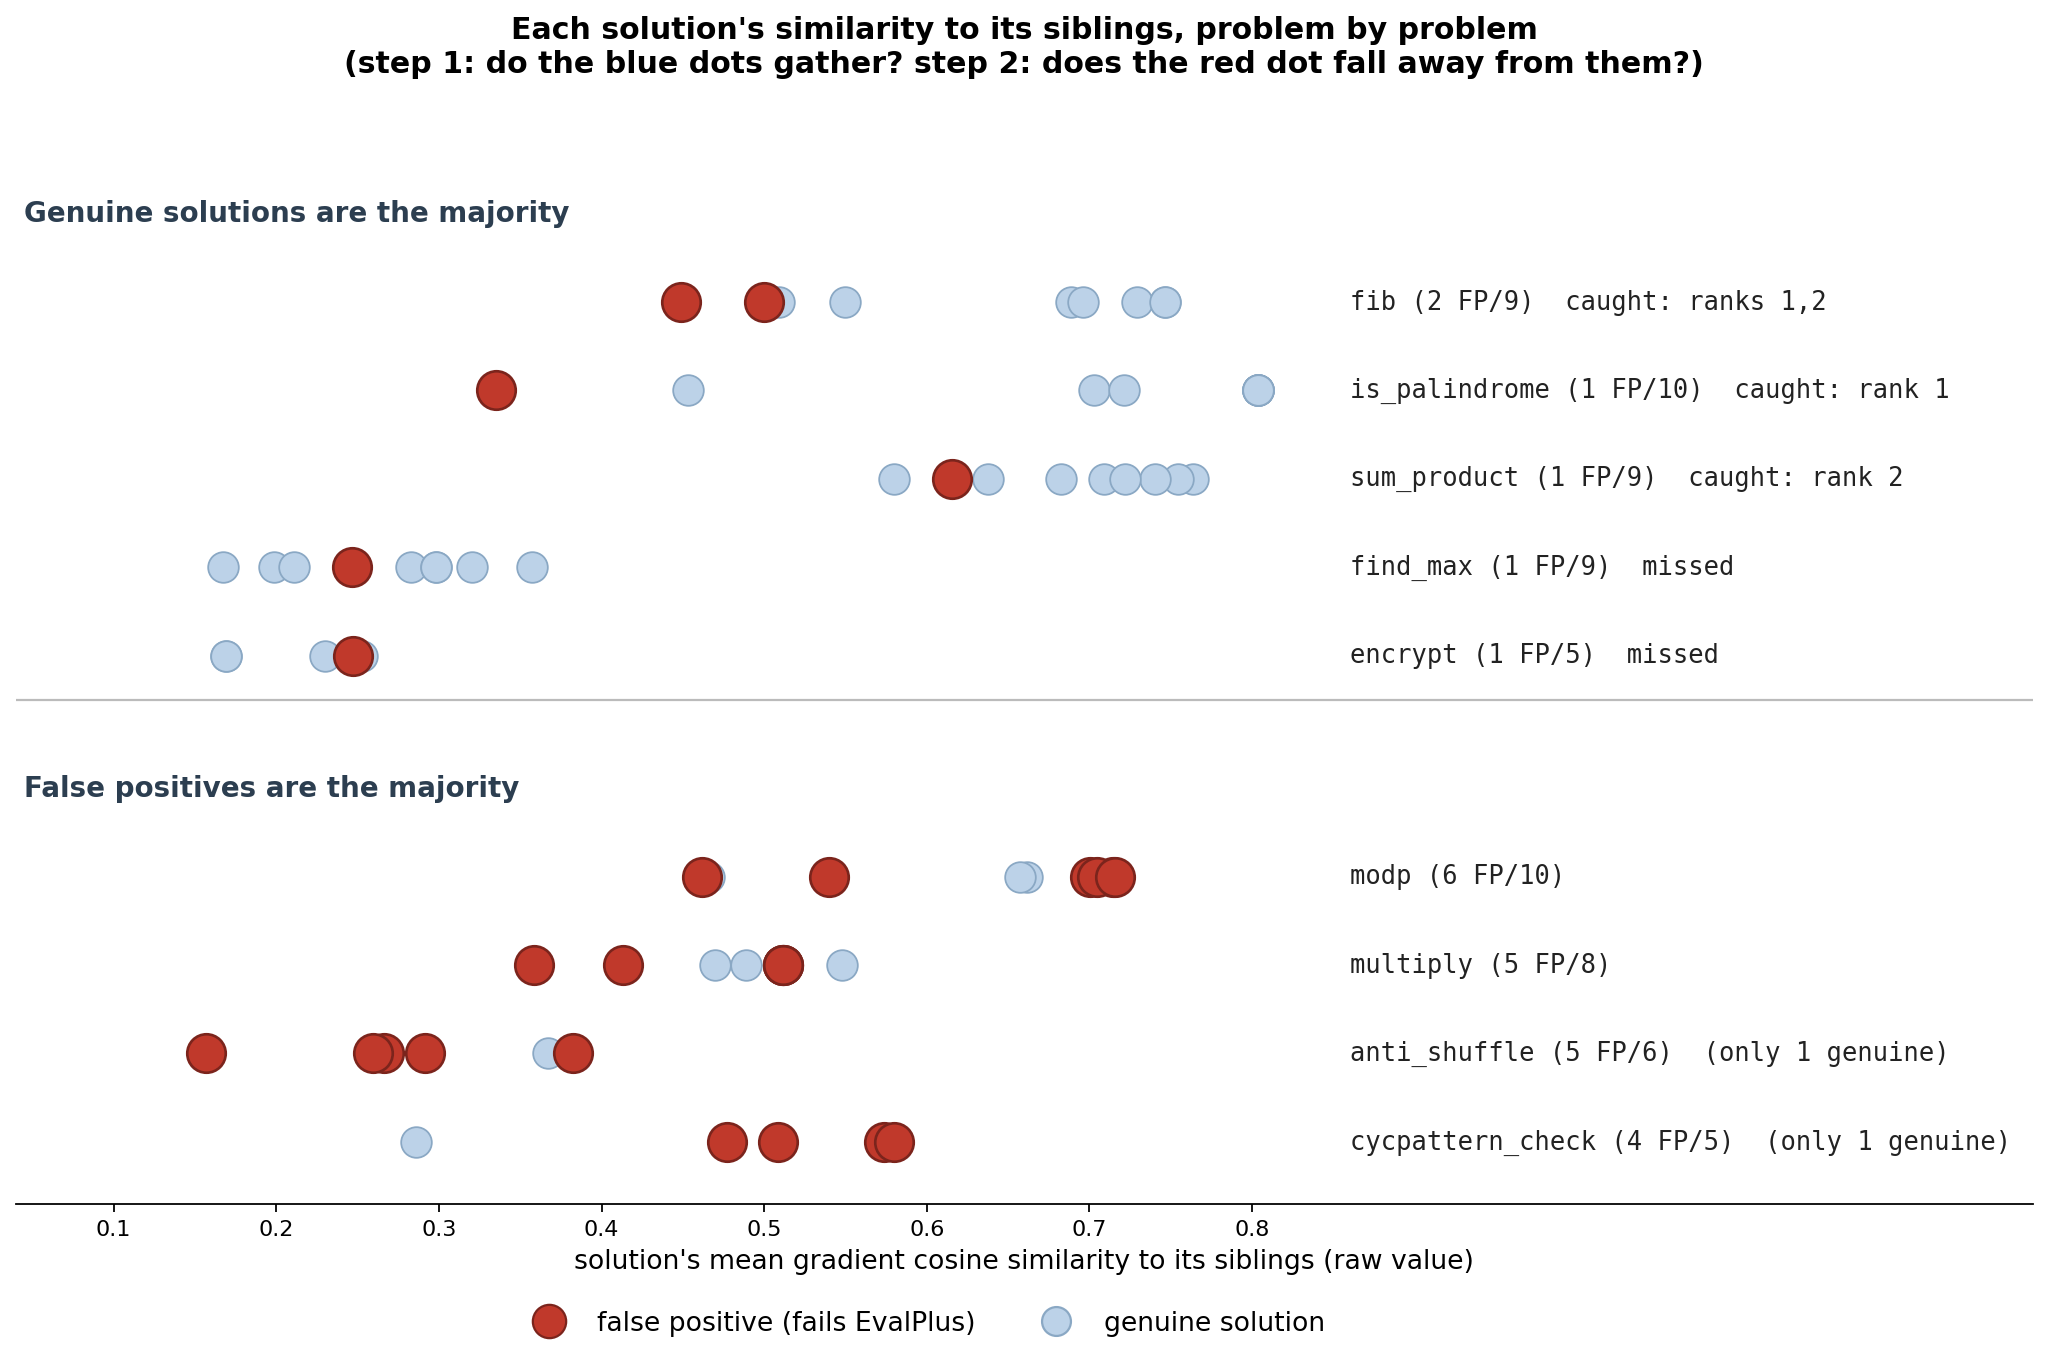
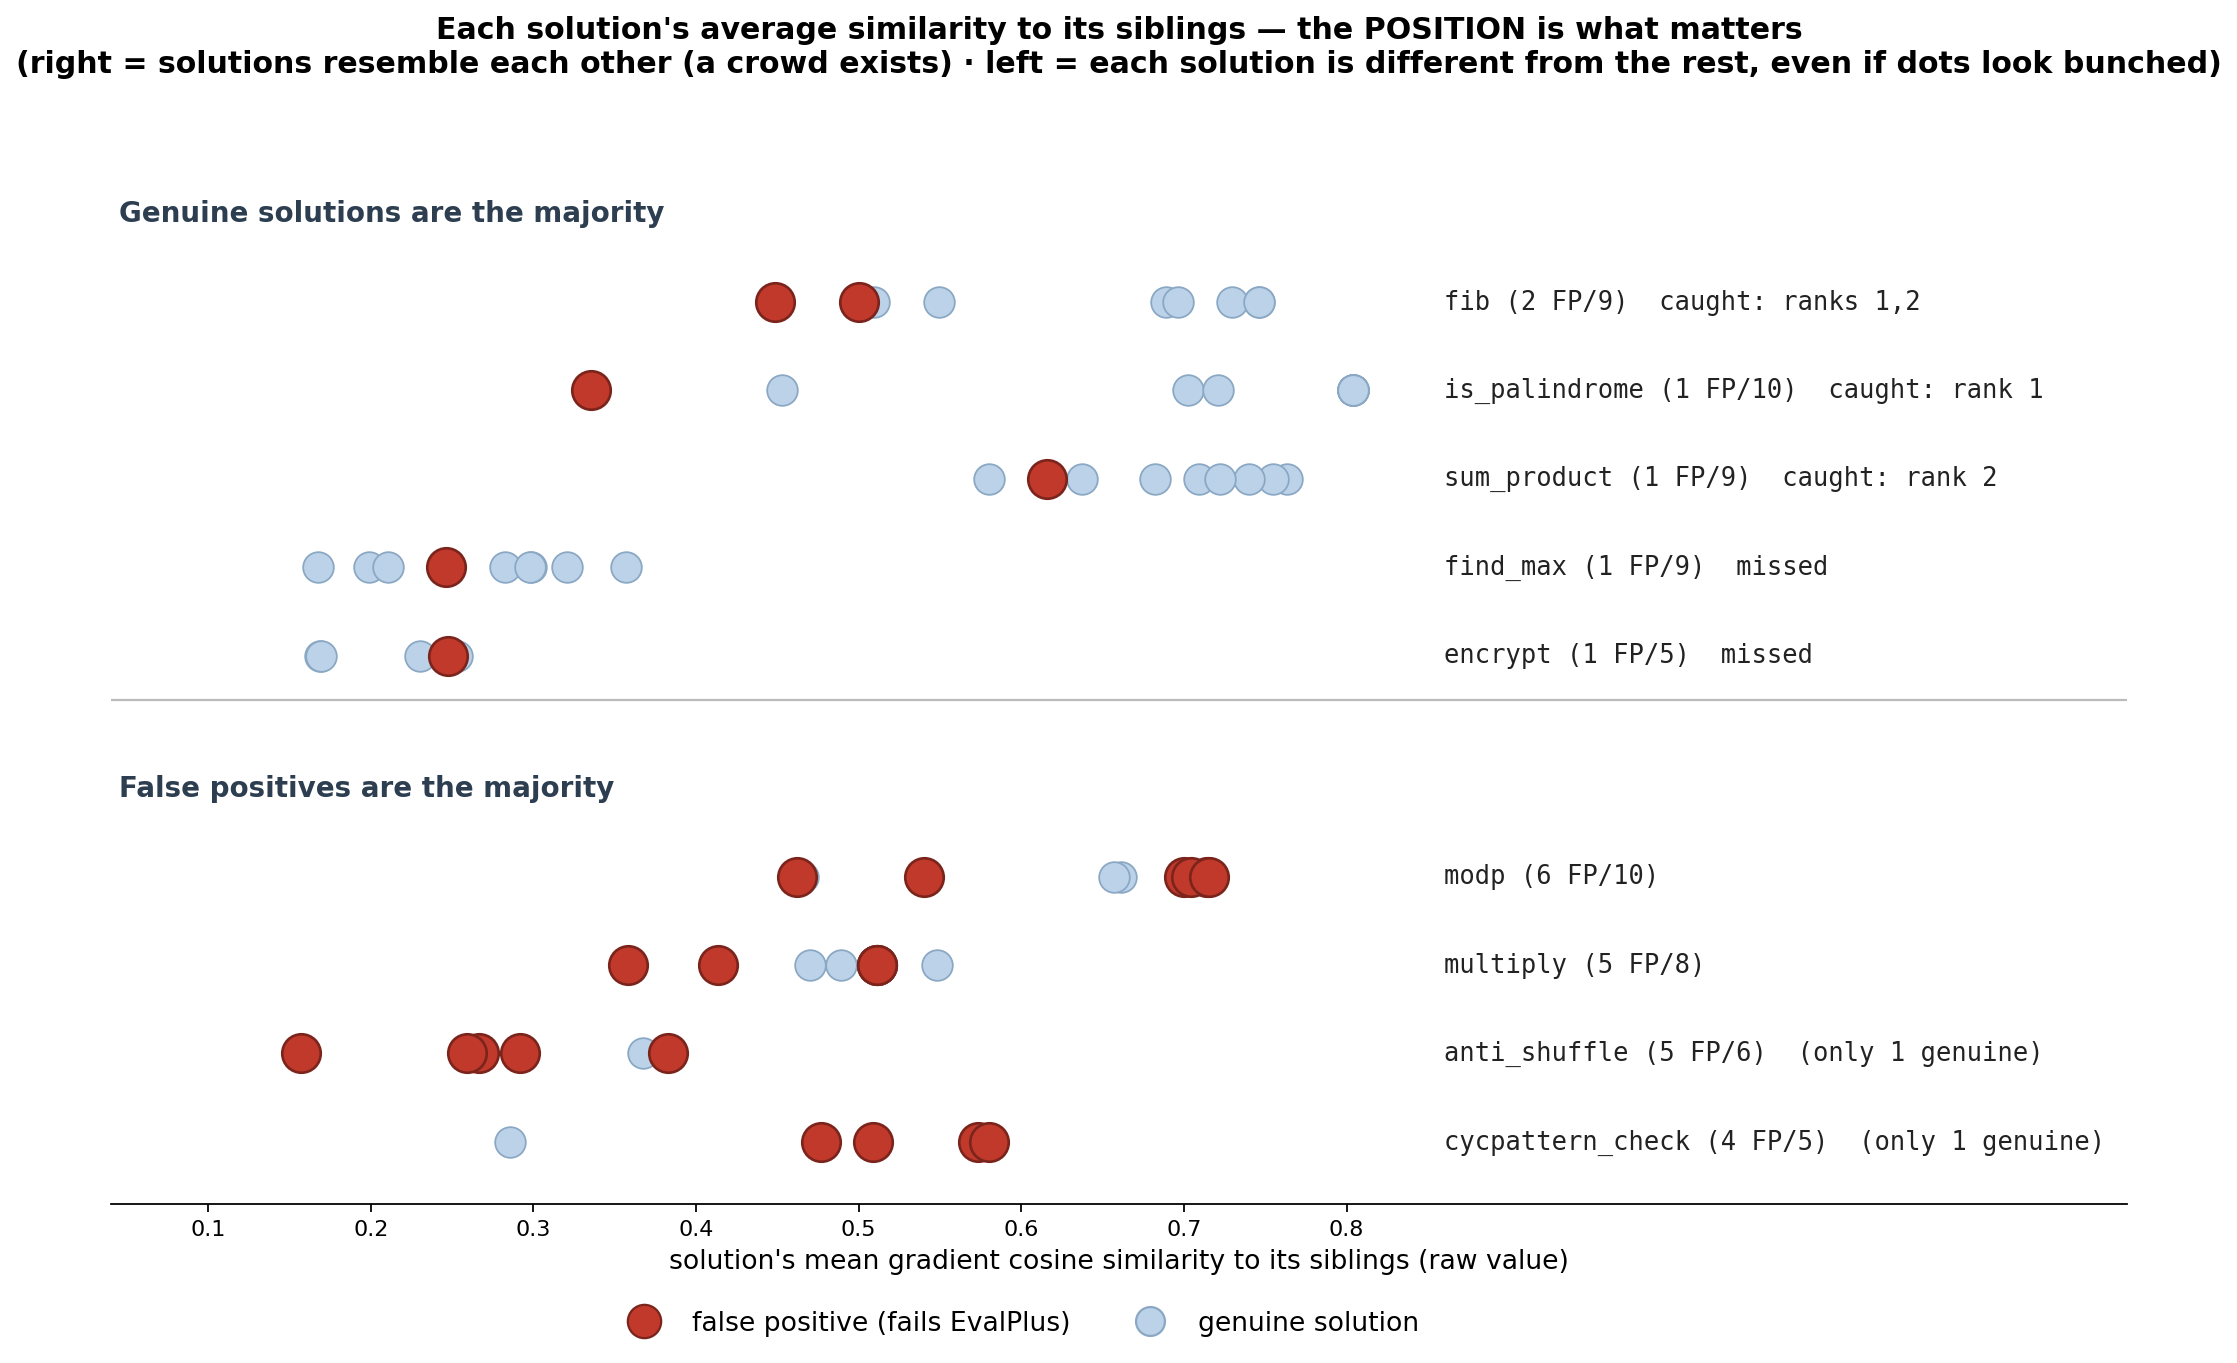
Fix figure reading rule: axis position is the similarity; left-bunched dots mean no crowd

diff --git a/ANALYSIS.md b/ANALYSIS.md
@@ -87,4 +87,4 @@ Result (suggestive, not conclusive): tasks with few passing solutions become out
 
 ## 6. Visualization notes
 
-We tried four versions of the main figure: a rank strip (drops magnitude information), the raw-similarity strip above, the strip with a "genuine crowd band" (misleading for loose problems — scattered solutions are not a band), and per-problem 2-D MDS maps of the pairwise cosine distances (in 1.8M dimensions, distances compress; even a clearly-separable FP doesn't visually pop in 2-D with 5–10 points). The raw strip plus the two-step reading rule (does a crowd exist → does the red dot leave it) carried the most information honestly.
+We tried four versions of the main figure: a rank strip (drops magnitude information), the raw-similarity strip above, the strip with a "genuine crowd band" (misleading for loose problems — scattered solutions are not a band), and per-problem 2-D MDS maps of the pairwise cosine distances (in 1.8M dimensions, distances compress; even a clearly-separable FP doesn't visually pop in 2-D with 5–10 points). The raw strip carried the most information honestly — with one reading rule made explicit: on this axis, the dot's position IS the similarity, so dots bunched together on the left do not form a crowd; they mean every solution is far from every other.
